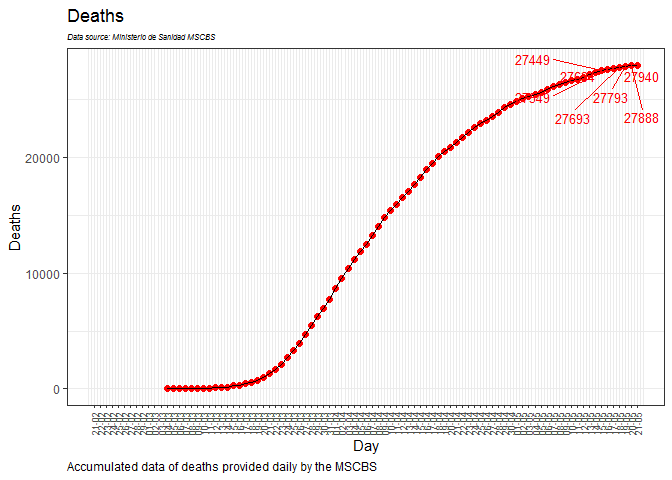
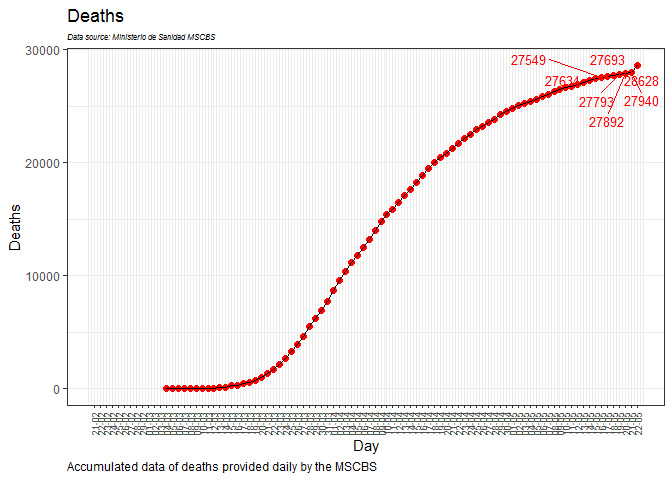
upgrade

diff --git a/README.md b/README.md
@@ -1,7 +1,7 @@
 Covid-19: The case of Spain
 ================
 JMSS \[Usal - CIC\]
-(updated: 21 may 2020)
+(updated: 22 may 2020)
 
 # Models for the COVID-19 pandemic in Spain
 
@@ -41,16 +41,17 @@ It is based on interpolation with cubic splines. See
 
 ![](README_files/figure-gfm/splinesD-1.png)<!-- -->
 
-##### Infecteds forecast for tomorrow (2020-05-22): 233519
+##### Infecteds forecast for tomorrow (2020-05-23): 236611
 
-##### Deaths forecast for tomorrow (2020-05-22): 27992
+##### Deaths forecast for tomorrow (2020-05-23): 29316
 
 Previous predictions:
 
     Infecteds forecast:
 
-    20-05 -> predicted = 232037; observed = 232555; error = -0.22%
+    20-05 -> predicted = 232037; observed = 232693; error = -0.28%
     21-05 -> predicted = 233073; observed = 233037; error =  0.02%
+    22-05 -> predicted = 233519; observed = 234824; error = -0.56%
 
     Deaths forecast:
 
@@ -98,8 +99,9 @@ Previous predictions:
     17-05 -> predicted = 27667; observed = 27634; error =  0.12%
     18-05 -> predicted = 27737; observed = 27693; error =  0.16%
     19-05 -> predicted = 27768; observed = 27793; error = -0.09%
-    20-05 -> predicted = 27847; observed = 27888; error = -0.15%
+    20-05 -> predicted = 27847; observed = 27892; error = -0.16%
     21-05 -> predicted = 27998; observed = 27940; error =  0.21%
+    22-05 -> predicted = 27992; observed = 28628; error = -2.27%
 
 -----
 
